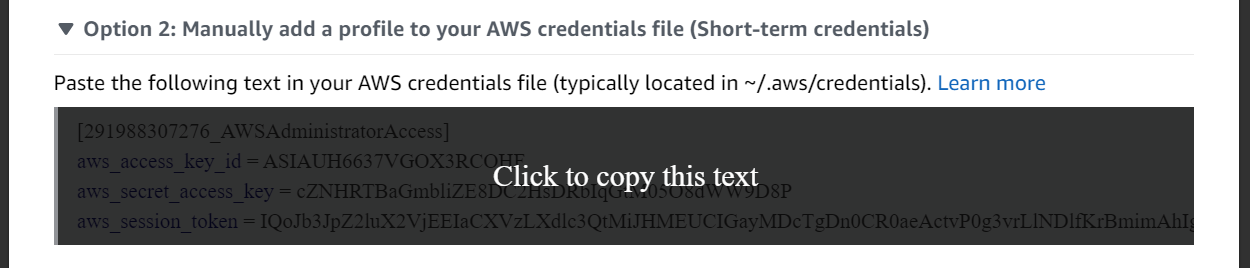
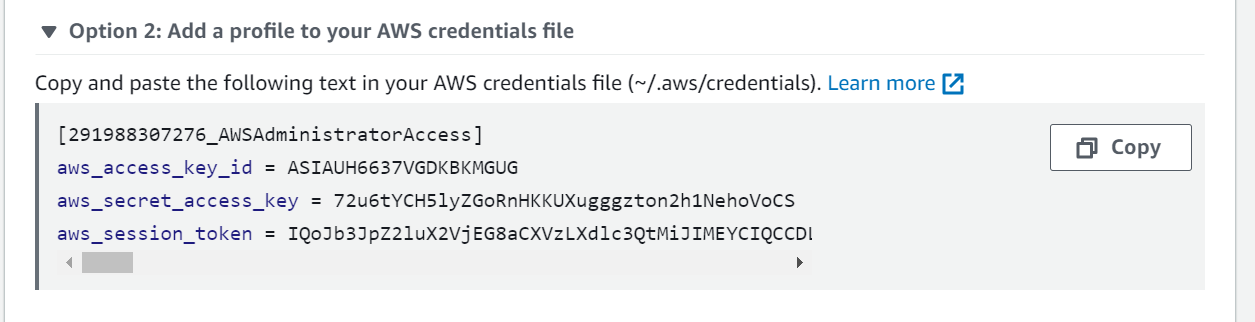
Update the credential copy from the web with the updated AWS portal. remove the need to put "region=" in the credentials file. Fix a few typos.

diff --git a/docs/source/installation/cloudadmin.rst b/docs/source/installation/cloudadmin.rst
@@ -115,6 +115,9 @@ The following table briefly describes the repo directory structure under :fname:
 A template settings file is in the
 :fname:`templates/aws-settings.yaml` and is the working configuration file that UCI uses.
 
+.. warning:: A number of one-time decisions made by the :silver:`cloudadmin` in terms of naming (e.g., institution
+             name, bucket postfix, and others) **CANNOT** be changed later. A large number of AWS services and
+             names rely on static strings. For example you cannot change the name of a bucket once created. 
 
 3.1. Set your Institution Name
 ^^^^^^^^^^^^^^^^^^^^^^^^^^^^^^
@@ -168,36 +171,6 @@ Your :fname:`$RCS3_ROOT/.aws/credentials` file should look similar to the follow
    aws_secret_access_key=1N4EX4BTU-R2&Z3Aa1o2enaNuzPtd5xrjpf/eoSf3
    aws_session_token=IQoJb3JpZ2luX2VjEIP//////////wEaCXVzLXdlc3QtMiJIMEYCIQCG/lvaXGYZuzSZcYooOlmeOfXe9saVApHJKy+ ...
 
-You also need to add a :rcicorange:`region=xxx` to this block, where *xxx* is a valid AWS region identifier. 
-In this example, :rcicorange:`us-west-2` is the region and this file then looks like:
-
-.. code-block:: text
-
-   [314159307276_AWSAdministratorAccess]
-   region=us-west-2
-   aws_access_key_id=ASIAX3D737VGKZWY2CBF
-   aws_secret_access_key=1N4EX4BTU-R2&Z3Aa1o2enaNuzPtd5xrjpf/eoSf3
-   aws_session_token=IQoJb3JpZ2luX2VjEIP//////////wEaCXVzLXdlc3QtMiJIMEYCIQCG/lvaXGYZuzSZcYooOlmeOfXe9saVApHJKy+ ...
-
-You can find valid regions using the AWS command line itself by first setting a few environment variables:
-:fname:`AWS_SHARED_CREDENTIALS_FILE` (set up by default in the Docker/Singularity Container) and :rcicorange:`AWS_PROFILE`.
-For the :fname:`AWS_PROFILE`, need to select the string between the first :rcicorange:`[...string...]`  brackets pair of the credentials file.
-The full sequence using the account above is:
-
-.. code-block:: text
-
-   export AWS_PROFILE=314159307276_AWSAdministratorAccess
-   export AWS_SHARED_CREDENTIALS_FILE=$RCS3_ROOT/.aws/credentials
-   aws account list-regions
-
-This will output a JSON-formatted string that lists all available regions for your account. Select the appropriate
-region for your circumstances.
-
-.. note::
-   The tokens are time-limited (often valid for 60 minutes).  It's good practice to get fresh tokens and paste
-   them into :fname:`$RCS3_ROOT/.aws/credentials` file before you begin any administrative actions. 
-   Always make certain that
-   when you update the contents of this file, that the *region=* line remains intact.
 
 
 3.3. Update your AWS Identifying Accounts
@@ -212,9 +185,25 @@ You must replace your AWS account and region, the original looks similar to:
    accountid: "314159307276"
    region: "us-west-2"
 
-.. note::
-    The region id here must match the one in :fname:`$RCS3_ROOT/.aws/credentials`.
 
+You can find **valid** regions using the AWS command line itself by first setting a few environment variables:
+:fname:`AWS_SHARED_CREDENTIALS_FILE` (set up by default in the Docker/Singularity Container) and :rcicorange:`AWS_PROFILE`.
+For the :fname:`AWS_PROFILE`, you need to use the string between the first :rcicorange:`[...string...]`  
+brackets pair of the credentials file.
+The full sequence using the account above is:
+
+.. code-block:: text
+
+   export AWS_PROFILE=314159307276_AWSAdministratorAccess
+   export AWS_SHARED_CREDENTIALS_FILE=$RCS3_ROOT/.aws/credentials
+   aws account list-regions
+
+This will output a JSON-formatted string that lists all available regions for your account. Select the appropriate
+region for your circumstances.
+
+.. note::
+   The tokens are time-limited (often valid for 60 minutes).  It's good practice to get fresh tokens and paste
+   them into :fname:`$RCS3_ROOT/.aws/credentials` file before you begin any administrative actions. 
 
 3.4. Update the admin team notifications
 ^^^^^^^^^^^^^^^^^^^^^^^^^^^^^^^^^^^^^^^^
@@ -233,7 +222,7 @@ The admin team name should reflect something meaningful to you.  Replace
 ^^^^^^^^^^^^^^^^^^^^^^^^^^^^^^^^^^
 
 There are numerous locks and safeguards that can be put in place to limit access to backup buckets. The default
-is that only a per-server service account and the admins can access a servers backup bucket.  We've added IP address
+is that only a per-server service account and the admins can access a server's backup bucket.  We've added IP address
 ranging as another obstacle to access.   For UCI, we allow access from on-campus address ranges. These are specific to
 UCI and should be changed to reflect your institution:
 
@@ -291,8 +280,9 @@ Each invocation *adds* the emails to the full set of emails for the topic.  Dupl
    **cloudadmin/create-admin-sns-topic.py -e <email1> [<email> ...]**
 
 .. note::
-   There is no command-line method provided by AWS to *delete* and email.  In the online AWS web console, you can
-   open the Simple Notification Service, go to your admin topic and delete an email from there.
+   There is no simple command-line method provided by AWS to *delete* an email.  It is straightforward to do this
+   interactively in the online AWS web console. Open
+   the Simple Notification Service, go to your admin topic and delete an email from there.
 
 **Step 3: Create the Custom Cost-Estimates Dashboard**
 
